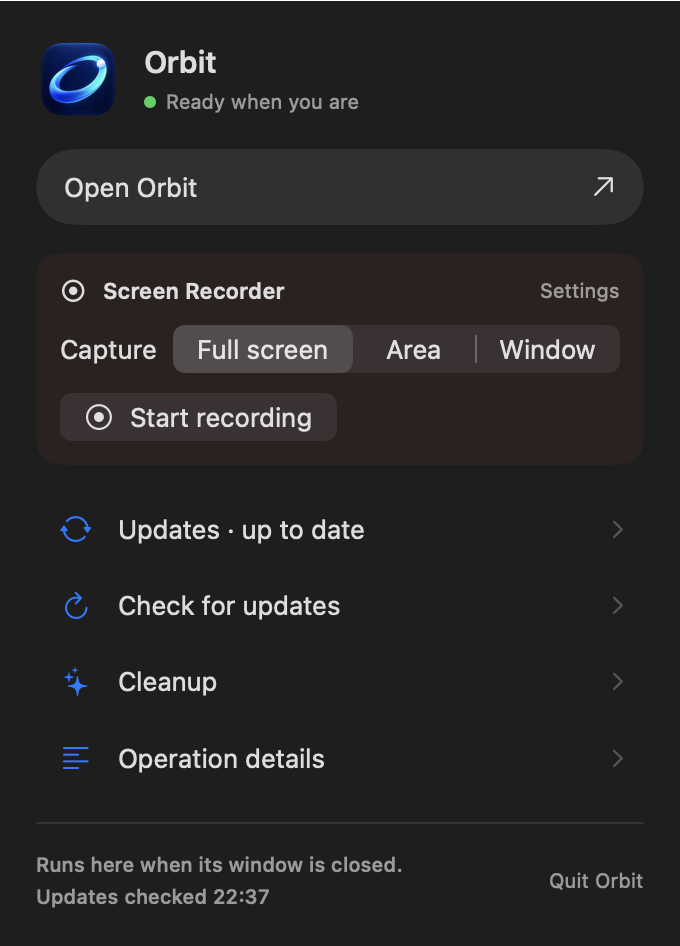
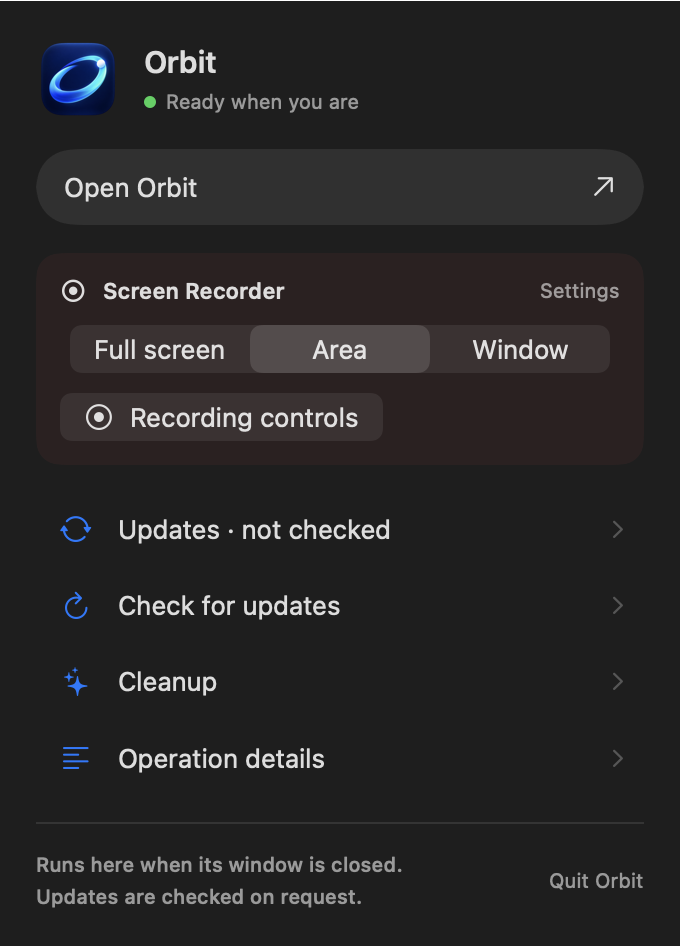
Add background recording controls and fix menu capture layout (#19)

diff --git a/Sources/Recorder.swift b/Sources/Recorder.swift
@@ -3,6 +3,7 @@ import AppKit
 import ScreenCaptureKit
 import AVFoundation
 import AVKit
+import Combine
 import UniformTypeIdentifiers
 
 @MainActor final class RecorderState: ObservableObject {
@@ -28,6 +29,10 @@ import UniformTypeIdentifiers
     @Published var trimStart = 0.0
     @Published var trimEnd = 0.0
     @Published var coverMask = false
+    @Published var compactControls = false
+    private var hudSubscription: AnyCancellable?
+    private var hudHost: NSHostingController<RecorderHUD>?
+    var controlsVisible: Bool { hud?.isVisible == true }
     var canBegin: () -> Bool = { true }
     var preview = false
     private var engine: RecorderEngine?, destination: URL?, directory: URL?
@@ -79,14 +84,15 @@ import UniformTypeIdentifiers
         phase = .preparing; defer { phase = .idle }
         if let rect = await picker.select(displayID:id,within:frame,label:coverMask ? "Select solid privacy cover" : "Select blur area"), let normalized = RecorderGeometry.normalized(rect,inside:frame) { options.masks.append(RecorderMask(rect:normalized,cover:coverMask)) }
     }
-    func start() {
+    func start(compact: Bool = false) {
         guard !preview, !busy, canBegin() else { return }
-        phase = .preparing; notice = nil; recoveryURL = nil; let ticket = UUID(); token = ticket
+        compactControls = compact
+        phase = .preparing; notice = nil; recoveryURL = nil; if compactControls { showHUD() }; let ticket = UUID(); token = ticket
         startTask = Task { await begin(ticket:ticket) }
     }
     func cancelStart() {
         guard phase == .preparing || phase == .countdown else { return }
-        token = UUID(); startTask?.cancel(); picker.cancel(); tracker.stop(); hud?.orderOut(nil); hud = nil; if startTask == nil { phase = .idle }; status = "Cancelling recording…"
+        token = UUID(); startTask?.cancel(); picker.cancel(); tracker.stop(); hud?.orderOut(nil); hud = nil; hudHost = nil; hudSubscription = nil; if startTask == nil { phase = .idle }; status = "Cancelling recording…"
     }
     private func begin(ticket: UUID) async {
         defer { startTask = nil }
@@ -104,7 +110,14 @@ import UniformTypeIdentifiers
             if capturedOptions.webcam { guard await AVCaptureDevice.requestAccess(for:.video) else { throw RecorderProblem(message:"Camera access was denied. Allow it in System Settings or turn Webcam off.") } }
             try check(ticket)
             try tracker.start(shortcuts:capturedOptions.shortcuts)
-            guard let target = savePanel(name:"Orbit-\(Self.timestamp()).mp4") else { throw CancellationError() }
+            let target: URL
+            if compactControls {
+                guard let movies = FileManager.default.urls(for:.moviesDirectory,in:.userDomainMask).first else { throw RecorderProblem(message:"Movies folder is unavailable.") }
+                target = try Self.compactDestination(in:movies.appendingPathComponent("Orbit Recordings",isDirectory:true))
+            } else {
+                guard let chosen = savePanel(name:"Orbit-\(Self.timestamp()).mp4") else { throw CancellationError() }
+                target = chosen
+            }
             try check(ticket)
             destination = target
             let folder = FileManager.default.temporaryDirectory.appendingPathComponent("Orbit-Recording-\(UUID().uuidString)",isDirectory:true)
@@ -136,9 +149,9 @@ import UniformTypeIdentifiers
             sleepObserver = NSWorkspace.shared.notificationCenter.addObserver(forName:NSWorkspace.willSleepNotification,object:nil,queue:.main) { [weak self] _ in Task { @MainActor in await self?.stop(interruption:"The Mac is going to sleep.") } }
         } catch {
             if let engine { try? await engine.finish() }; engine = nil
-            tracker.stop(); ticker?.invalidate(); ticker = nil; hud?.orderOut(nil); hud = nil
+            tracker.stop(); ticker?.invalidate(); ticker = nil; hud?.orderOut(nil); hud = nil; hudHost = nil; hudSubscription = nil
             if !(error is CancellationError) { notice = error.localizedDescription }
-            if let directory { try? FileManager.default.removeItem(at:directory) }; directory = nil; phase = .idle; status = error is CancellationError ? "Recording cancelled." : "Recording did not start."
+            if let directory { try? FileManager.default.removeItem(at:directory) }; directory = nil; phase = .idle; status = error is CancellationError ? "Recording cancelled." : "Recording did not start."; if compactControls { showHUD() }
         }
     }
     private func check(_ ticket: UUID) throws { if Task.isCancelled || token != ticket { throw CancellationError() } }
@@ -152,7 +165,7 @@ import UniformTypeIdentifiers
         guard phase == .recording || phase == .paused, let engine, let destination else { return }
         phase = .finishing; ticker?.invalidate(); ticker = nil; tracker.stop(); player?.pause(); status = "Finalizing video and mixing selected audio…"
         if let sleepObserver { NSWorkspace.shared.notificationCenter.removeObserver(sleepObserver) }; sleepObserver = nil
-        defer { self.engine = nil; self.destination = nil; hud?.orderOut(nil); hud = nil; phase = .idle }
+        defer { self.engine = nil; self.destination = nil; phase = .idle; if compactControls { showHUD() } else { hud?.orderOut(nil); hud = nil; hudHost = nil; hudSubscription = nil } }
         do {
             try await engine.finish(); recoveryURL = engine.url
             try await RecorderFiles.export(engine.url,to:destination,mixAudio:true)
@@ -179,12 +192,32 @@ import UniformTypeIdentifiers
         guard panel.runModal() == .OK, let url = panel.url else { return nil }
         guard !FileManager.default.fileExists(atPath:url.path) else { notice = "Choose a new filename; Orbit does not replace existing files."; return nil }; return url
     }
+    func showCompactControls() {
+        guard !busy, canBegin() else { return }
+        compactControls = true; notice = nil; if options.mode == "Selected area" { area = nil }; showHUD()
+    }
+    func closeControls() {
+        guard !active, !editing else { return }
+        hud?.orderOut(nil); hud = nil; hudHost = nil; hudSubscription = nil; compactControls = false
+    }
+    static func compactDestination(in folder: URL) throws -> URL {
+        try FileManager.default.createDirectory(at:folder,withIntermediateDirectories:true,attributes:[.posixPermissions:0o700])
+        return folder.appendingPathComponent("Orbit-\(timestamp())-\(UUID().uuidString).mp4")
+    }
+    private func resizeHUD() {
+        guard let hud, let host = hudHost else { return }
+        let size = host.sizeThatFits(in:NSSize(width:420,height:700))
+        if size.height > 0 { hud.setContentSize(size) }
+    }
     private func showHUD() {
-        let panel = NSPanel(contentRect:CGRect(x:0,y:0,width:350,height:58),styleMask:[.borderless,.nonactivatingPanel],backing:.buffered,defer:false)
-        panel.title = "Orbit Recording Controls"; panel.isOpaque = false; panel.backgroundColor = .clear; panel.level = .statusBar; panel.collectionBehavior = [.canJoinAllSpaces,.fullScreenAuxiliary]; panel.isReleasedWhenClosed = false
-        panel.contentView = NSHostingView(rootView:RecorderHUD(state:self))
-        if let screen = NSScreen.screens.first(where:{ ($0.deviceDescription[NSDeviceDescriptionKey("NSScreenNumber")] as? NSNumber)?.uint32Value == displayID }) ?? NSScreen.main { panel.setFrameOrigin(NSPoint(x:screen.visibleFrame.midX-175,y:screen.visibleFrame.minY+20)) }
-        hud = panel; panel.orderFrontRegardless()
+        if let hud { resizeHUD(); hud.orderFrontRegardless(); return }
+        let panel = NSPanel(contentRect:CGRect(x:0,y:0,width:420,height:100),styleMask:[.borderless,.nonactivatingPanel],backing:.buffered,defer:false)
+        panel.title = "Orbit Recording Controls"; panel.isOpaque = false; panel.backgroundColor = .clear; panel.level = .statusBar; panel.collectionBehavior = [.canJoinAllSpaces,.fullScreenAuxiliary]; panel.isReleasedWhenClosed = false; panel.isMovableByWindowBackground = true; panel.hidesOnDeactivate = false; panel.becomesKeyOnlyIfNeeded = true
+        let host = NSHostingController(rootView:RecorderHUD(state:self)); hudHost = host; panel.contentViewController = host
+        hud = panel; resizeHUD()
+        if let screen = NSScreen.screens.first(where:{ ($0.deviceDescription[NSDeviceDescriptionKey("NSScreenNumber")] as? NSNumber)?.uint32Value == displayID }) ?? NSScreen.main { panel.setFrameOrigin(NSPoint(x:screen.visibleFrame.midX-panel.frame.width/2,y:screen.visibleFrame.minY+20)) }
+        hudSubscription = objectWillChange.sink { [weak self] _ in DispatchQueue.main.async { self?.resizeHUD() } }
+        panel.orderFrontRegardless()
     }
     static func timestamp() -> String { let formatter = DateFormatter(); formatter.dateFormat = "yyyyMMdd-HHmmss"; return formatter.string(from:Date()) }
 }
@@ -264,7 +297,7 @@ struct RecorderView: View {
                 else { Button("Start recording") { state.start() }.buttonStyle(.borderedProminent).disabled(state.busy || !state.canBegin()) }
             }
         }.padding(24).frame(maxWidth:.infinity,maxHeight:.infinity).background(Color(nsColor:.windowBackgroundColor))
-        .alert("Screen Recorder",isPresented:Binding(get:{ state.notice != nil },set:{ if !$0 { state.notice = nil } })) { Button("OK") { state.notice = nil }; Button("Privacy settings") { NSWorkspace.shared.open(URL(string:"x-apple.systempreferences:com.apple.preference.security")!) } } message: { Text(state.notice ?? "") }
+        .alert("Screen Recorder",isPresented:Binding(get:{ !state.compactControls && state.notice != nil },set:{ if !$0 { state.notice = nil } })) { Button("OK") { state.notice = nil }; Button("Privacy settings") { NSWorkspace.shared.open(URL(string:"x-apple.systempreferences:com.apple.preference.security")!) } } message: { Text(state.notice ?? "") }
     }
 }
 

diff --git a/Sources/RecorderSelection.swift b/Sources/RecorderSelection.swift
@@ -52,12 +52,42 @@ final class RecorderSelectionCanvas: NSView {
 struct RecorderHUD: View {
     @ObservedObject var state: RecorderState
     var body: some View {
-        HStack(spacing:12) {
-            Circle().fill(state.phase == .paused ? .orange : .red).frame(width:8,height:8)
-            Text(state.phase == .countdown ? "Starting in \(state.countdown)…" : state.elapsedLabel).font(.system(.body,design:.monospaced).bold())
-            if state.phase == .recording || state.phase == .paused { Button(state.phase == .paused ? "Resume" : "Pause") { state.togglePause() }; Button("Stop") { Task { await state.stop() } }.tint(.red) }
-            else if state.phase == .countdown { Button("Cancel") { state.cancelStart() } }
-            else { ProgressView().controlSize(.small); Text("Saving…") }
-        }.padding(12).background(.regularMaterial).clipShape(RoundedRectangle(cornerRadius:14))
+        VStack(alignment:.leading,spacing:12) {
+            HStack {
+                Label("Orbit Recorder",systemImage:"record.circle").font(.subheadline.bold())
+                Spacer()
+                if state.phase == .idle { Button { state.closeControls() } label: { Image(systemName:"xmark") }.buttonStyle(.borderless).help("Close recording controls") }
+            }
+            if state.phase == .idle {
+                Picker("",selection:$state.options.mode) { Text("Full screen").tag("Full screen"); Text("Area").tag("Selected area"); Text("Window").tag("Window") }.pickerStyle(.segmented).labelsHidden().onChange(of:state.options.mode) { _,_ in state.modeChanged() }
+                if state.options.mode == "Window" {
+                    HStack {
+                        Picker("Window",selection:$state.windowID) { Text("Choose a window").tag(UInt32(0)); ForEach(state.windows,id:\.windowID) { window in Text((window.owningApplication?.applicationName ?? "App") + " · " + (window.title ?? "Window")).tag(window.windowID) } }.labelsHidden()
+                        Button("Refresh") { Task { await state.loadSources() } }.disabled(state.busy)
+                    }
+                } else if !state.displays.isEmpty {
+                    Picker("Display",selection:$state.displayID) { ForEach(state.displays,id:\.displayID) { display in Text("Display · \(display.width) × \(display.height)").tag(display.displayID) } }.onChange(of:state.displayID) { _,_ in state.modeChanged() }
+                }
+                Text("Saves to Movies/Orbit Recordings").font(.caption).foregroundStyle(.secondary)
+                HStack {
+                    Button("Start",systemImage:"record.circle") { state.start(compact:true) }.buttonStyle(.borderedProminent).tint(.red).disabled(state.busy || !state.canBegin() || (state.options.mode == "Window" && state.selectedWindow == nil))
+                    Spacer()
+                    if let url = state.recordingURL { Button("Show last recording") { NSWorkspace.shared.activateFileViewerSelecting([url]) } }
+                }
+            } else {
+                HStack(spacing:12) {
+                    Circle().fill(state.phase == .paused ? .orange : .red).frame(width:8,height:8)
+                    Text(state.phase == .countdown ? "Starting in \(state.countdown)…" : state.elapsedLabel).font(.system(.body,design:.monospaced).bold())
+                    Spacer()
+                    if state.phase == .recording || state.phase == .paused { Button(state.phase == .paused ? "Resume" : "Pause") { state.togglePause() }; Button("Stop") { Task { await state.stop() } }.tint(.red) }
+                    else if state.phase == .countdown || state.phase == .preparing { ProgressView().controlSize(.small); Button("Cancel") { state.cancelStart() } }
+                    else { ProgressView().controlSize(.small); Text("Saving…") }
+                }
+            }
+            if let notice = state.notice {
+                Text(notice).font(.caption).foregroundStyle(.orange).fixedSize(horizontal:false,vertical:true)
+                Button("Privacy settings") { NSWorkspace.shared.open(URL(string:"x-apple.systempreferences:com.apple.preference.security")!) }
+            }
+        }.padding(14).frame(width:420).background(.regularMaterial).clipShape(RoundedRectangle(cornerRadius:14))
     }
 }

diff --git a/Sources/App.swift b/Sources/App.swift
@@ -493,7 +493,6 @@ struct OrbitApp: App {
             pump(0.2)
             window.performClose(nil); precondition(!window.isVisible && controller.statusItem != nil)
             controller.openWindow(); precondition(window.isVisible)
-            window.miniaturize(nil); controller.openWindow(); precondition(!window.isMiniaturized)
             controller.perform(.cleanup); precondition(store.mode == .cleanup && window.isVisible)
             controller.perform(.updates); precondition(store.mode == .updates)
             controller.perform(.details); precondition(store.showLog && window.isVisible); store.showLog = false
@@ -517,9 +516,17 @@ struct OrbitApp: App {
             controller.perform(.recorder); precondition(store.mode == .recorder)
             controller.perform(.cleanup); precondition(store.mode == .recorder, "Recording must block package navigation")
             store.recorderState.phase = .countdown; store.recorderState.cancelStart(); precondition(store.recorderState.phase == .idle)
+            window.orderOut(nil)
+            let previousMode = store.mode
+            controller.perform(.record); pump(0.2)
+            precondition(!window.isVisible && store.mode == previousMode && store.recorderState.controlsVisible, "Menu recording must open only floating controls")
+            precondition(store.recorderState.phase == .idle, "Opening controls must not start capture")
+            store.recorderState.closeControls(); precondition(!store.recorderState.controlsVisible)
+            controller.openWindow()
+            window.miniaturize(nil); pump(0.5); controller.openWindow(); pump(0.8); precondition(!window.isMiniaturized)
             controller.remove(); precondition(controller.statusItem == nil)
             window.orderOut(nil)
-            print("PASS: native status item, popover toggle/dynamic size, close-to-menu-bar, reopen/minimize recovery, shared navigation and details")
+            print("PASS: native status item, popover toggle/dynamic size, close-to-menu-bar, reopen/minimize recovery, shared navigation, floating recording controls without main-window activation and details")
             return
         }
         if let index = CommandLine.arguments.firstIndex(of: "--render-preview"), CommandLine.arguments.count > index + 1 {
@@ -577,6 +584,8 @@ struct OrbitApp: App {
                 previewStore.updatesChecked = true; previewStore.lastUpdateCheck = Date(); root = AnyView(MenuBarPanel(store: previewStore) { _ in }); size = NSSize(width: 340, height: 400)
                 if CommandLine.arguments.contains("--menu-bar-active-preview") { previewStore.busy = true; previewStore.total = 5; previewStore.completed = 2; previewStore.headline = "Updating Figma…"; size = NSSize(width: 340, height: 510) }
             }
+            if CommandLine.arguments.contains("--menu-bar-area-preview") { previewStore.recorderState.options.mode = "Selected area"; root = AnyView(MenuBarPanel(store:previewStore) { _ in }); size = NSSize(width:340,height:600) }
+            if CommandLine.arguments.contains("--recorder-controls-preview") { previewStore.recorderState.compactControls = true; root = AnyView(RecorderHUD(state:previewStore.recorderState)); size = NSSize(width:420,height:220) }
             if CommandLine.arguments.contains("--export-preview") { root = AnyView(SetupExportView(store: previewStore)); size = NSSize(width: 650, height: 620) }
             if CommandLine.arguments.contains("--repair-preview") {
                 let package = Catalog.packages.first { $0.token == "figma" }!

diff --git a/Sources/MenuBar.swift b/Sources/MenuBar.swift
@@ -60,8 +60,8 @@ struct MenuBarPanel: View {
                 } else if recorder.active {
                     HStack { ProgressView().controlSize(.small); Text(recorder.phase == .countdown ? "Starting in \(recorder.countdown)…" : "Preparing or saving…").font(.caption); Spacer(); if recorder.phase == .preparing || recorder.phase == .countdown { Button("Cancel") { recorder.cancelStart() } } }
                 } else {
-                    Picker("Capture", selection: $recorder.options.mode) { Text("Full screen").tag("Full screen"); Text("Area").tag("Selected area"); Text("Window").tag("Window") }.pickerStyle(.segmented).onChange(of: recorder.options.mode) { _, _ in recorder.modeChanged() }.disabled(state.operating)
-                    Button("Start recording", systemImage: "record.circle") { action(.record) }.buttonStyle(.bordered).frame(maxWidth:.infinity, alignment:.leading).disabled(state.operating)
+                    Picker("", selection: $recorder.options.mode) { Text("Full screen").tag("Full screen"); Text("Area").tag("Selected area"); Text("Window").tag("Window") }.pickerStyle(.segmented).labelsHidden().frame(maxWidth:.infinity).fixedSize(horizontal:false,vertical:true).onChange(of: recorder.options.mode) { _, _ in recorder.modeChanged() }.disabled(state.operating)
+                    Button("Recording controls", systemImage: "record.circle") { action(.record) }.buttonStyle(.bordered).frame(maxWidth:.infinity, alignment:.leading).disabled(state.operating)
                 }
             }.padding(12).background(Color.red.opacity(0.06)).clipShape(RoundedRectangle(cornerRadius:12))
             VStack(spacing: 2) {
@@ -140,7 +140,7 @@ final class OrbitWindowDelegate: NSObject, NSWindowDelegate {
     func openWindow() {
         popover.close()
         if mainWindow == nil { NSApp.windows.forEach { remember($0) } }
-        NSApp.activate(ignoringOtherApps: true); mainWindow?.deminiaturize(nil); mainWindow?.makeKeyAndOrderFront(nil)
+        NSApp.activate(ignoringOtherApps: true); if mainWindow?.isMiniaturized == true { mainWindow?.deminiaturize(nil) }; mainWindow?.makeKeyAndOrderFront(nil)
     }
     func perform(_ action: MenuBarAction) {
         let state = MenuBarState(store: store)
@@ -153,7 +153,7 @@ final class OrbitWindowDelegate: NSObject, NSWindowDelegate {
         case .recorder:
             if state.operating && !store.recorderState.busy { return }; if store.recorderState.busy { store.mode = .recorder } else { store.navigate(.recorder) }; openWindow()
         case .record:
-            guard !state.operating else { return }; store.navigate(.recorder); openWindow(); store.recorderState.start()
+            guard !state.operating else { return }; popover.close(); store.recorderState.showCompactControls(); mainWindow?.orderOut(nil)
         case .pauseRecord: store.recorderState.togglePause()
         case .stopRecord: Task { await store.recorderState.stop() }
         case .details: openWindow(); store.showLog = true

diff --git a/RecorderTests.swift b/RecorderTests.swift
@@ -55,6 +55,12 @@ import AudioToolbox
         precondition(blurred != rgba(split,size:bounds.size), "Blur must alter the selected region")
         let folder = FileManager.default.temporaryDirectory.appendingPathComponent("OrbitRecorderTests-\(UUID().uuidString)")
         try FileManager.default.createDirectory(at:folder,withIntermediateDirectories:true,attributes:[.posixPermissions:0o700]); defer { try? FileManager.default.removeItem(at:folder) }
+        let compactFolder = folder.appendingPathComponent("Orbit Recordings",isDirectory:true)
+        let compactFirst = try RecorderState.compactDestination(in:compactFolder), compactSecond = try RecorderState.compactDestination(in:compactFolder)
+        precondition(compactFirst != compactSecond && compactFirst.pathExtension == "mp4" && FileManager.default.fileExists(atPath:compactFolder.path))
+        try Data("previous recording".utf8).write(to:compactFirst)
+        let compactThird = try RecorderState.compactDestination(in:compactFolder)
+        precondition(compactThird != compactFirst && !FileManager.default.fileExists(atPath:compactThird.path), "Compact recordings must receive distinct, non-overwriting paths")
         let old = folder.appendingPathComponent("existing.mp4"), temporary = folder.appendingPathComponent("ready.mp4")
         try Data("original".utf8).write(to:old); try Data("new".utf8).write(to:temporary)
         do { try RecorderFiles.publish(temporary,to:old); preconditionFailure("Existing output must never be replaced") } catch { let original = try Data(contentsOf:old); precondition(original == Data("original".utf8)) }

diff --git a/docs/FEATURES.md b/docs/FEATURES.md
@@ -94,7 +94,7 @@ Run `python3 Scripts/update_app_logos.py` to rediscover icons from official home
 
 **Updates** refreshes Homebrew metadata, lists installed outdated packages in this curated catalog with current/available versions, and upgrades only the checked list after a separate review. Self-updating casks are opt-in; unversioned `latest` casks and pinned packages are excluded. Where an app bundle exposes its actual version, that version is checked when planning and again before upgrade so newer self-updated apps are skipped. This is a conservative numeric comparison, not a universal vendor-version parser. Homebrew may update or repair dependencies as part of an upgrade. Failures remain in Operation details, and stopping waits for the current operation. Searches filter the update list.
 
-Orbit's own **Check app release** checks GitHub's latest release endpoint and links to the release page for manual download. The private repository is unavailable to anonymous API requests; the app explains this and offers the browser page where the user can sign in. It does not collect GitHub credentials or automatically replace the running app. Orbit v0.16.1 is distributed as a DMG through this private repository’s Releases. Access requires repository permission.
+Orbit's own **Check app release** checks GitHub's latest release endpoint and links to the release page for manual download. The private repository is unavailable to anonymous API requests; the app explains this and offers the browser page where the user can sign in. It does not collect GitHub credentials or automatically replace the running app. Orbit v0.16.2 is distributed as a DMG through this private repository’s Releases. Access requires repository permission.
 
 **Uninstall & Clean** scans existing application bundle identifiers before removal. It reviews matching caches, logs, preferences, support folders, saved state, containers, HTTP storage, WebKit data, scripts, and cookies under the current user's Library. A small reviewed mapping adds app-specific paths for Chrome, VS Code, Blender, and Slack from the official Homebrew cask definitions. Shared group containers, vendor-wide folders, wildcard matches, system locations, and unrelated files are excluded; formulas have no guessed data cleanup. Cache/log entries are initially checked; settings and possible user data are unchecked. The user sees every path and its estimated size and can change the selection.
 
@@ -215,3 +215,9 @@ Microphone and system audio are encoded as independent source tracks then mixed 
 ### Video preview compatibility (v0.16.1)
 
 The completed-recording preview hosts native AVPlayerView directly instead of SwiftUI VideoPlayer. On the tested macOS 27.0.1 system, the SwiftUI AVKit overlay aborted while resolving VideoPlayerView superclass metadata. The regression suite now instantiates the completed-recording SwiftUI page with a generated MP4 and checks native player attachment, controls, replacement and teardown. The playback preview command exercises this branch without requesting capture permissions.
+
+### Compact recording controls (v0.16.2)
+
+Menu recording opens a movable, nonactivating control panel without navigating or activating Orbit's main window. Choose Full screen, Area or Window, then press Start. Window sources can be refreshed/chosen in the compact panel. Area recording asks for a fresh rectangle each time controls are opened. The panel handles preparation/cancellation, countdown, pause/resume/stop, inline errors and a Show last recording action. Compact recordings use unique MP4 filenames in Movies/Orbit Recordings; the main recorder page retains its save dialog. Neither capture nor device access starts just by opening controls. Advanced effects remain configurable on the main recorder page. The menu's segmented source selector hides its label to prevent vertical clipping in narrow popovers.
+
+Main-window reopening requests Dock restoration only for genuinely minimized windows, preventing unnecessary deferred foreground restoration during compact recording setup. Native smoke coverage checks the main window stays hidden while compact controls are opened and keeps minimize/reopen coverage separate.

diff --git a/README.md b/README.md
@@ -47,11 +47,13 @@ Scan your existing Zsh profiles, review Orbit's proposed blocks, then apply. Exi
 
 ## Record what matters
 
-Record a full display, a selected rectangle or a single window from **Screen Recorder** or Orbit's menu bar panel. Add a colored mouse halo, click rings, optional cursor-follow zoom, shortcut labels and a webcam bubble. Microphone and system audio have separate switches and start off.
+Record a full display, a selected rectangle or a single window from **Screen Recorder** or Orbit's menu bar panel. Menu recording opens compact floating controls without bringing the main window forward; press Start there and save automatically to Movies/Orbit Recordings. Add a colored mouse halo, click rings, optional cursor-follow zoom, shortcut labels and a webcam bubble. Microphone and system audio have separate switches and start off.
 
 A three-second countdown gives you time to prepare. Pause or stop from the floating controls or menu bar; Orbit's own windows are excluded from the video. Add blur areas or solid privacy covers before recording, then preview the MP4, copy the file or save a trimmed copy while keeping the original. Recordings stay local; no account or upload is involved.
 
 ![Orbit Screen Recorder with capture source, pointer effects, audio, camera and privacy areas](docs/images/recorder.png)
+
+![Compact floating recorder controls](docs/images/recorder-controls.png)
 
 ## Orbit, one click away
 
@@ -65,7 +67,7 @@ Closing the main window keeps Orbit in the menu bar. **Open Orbit** or its Dock 
 
 Requires **macOS 14 or later**. Homebrew must be installed to perform package operations; the first-launch setup check links to the official setup guide when it is missing. You can browse before completing setup.
 
-**[Download Orbit for Apple Silicon (.dmg)](https://github.com/CNRNYK/orbit/releases/download/v0.16.1/Orbit-0.16.1-macOS-arm64.dmg)** · [Release notes](https://github.com/CNRNYK/orbit/releases/tag/v0.16.1)
+**[Download Orbit for Apple Silicon (.dmg)](https://github.com/CNRNYK/orbit/releases/download/v0.16.2/Orbit-0.16.2-macOS-arm64.dmg)** · [Release notes](https://github.com/CNRNYK/orbit/releases/tag/v0.16.2)
 
 Open the DMG and drag **Orbit.app** to **Applications**. Downloads require access to this private repository. This release is ad-hoc signed and has not been notarized, so macOS may require approval in Privacy & Security. Only approve a download you trust.
 
